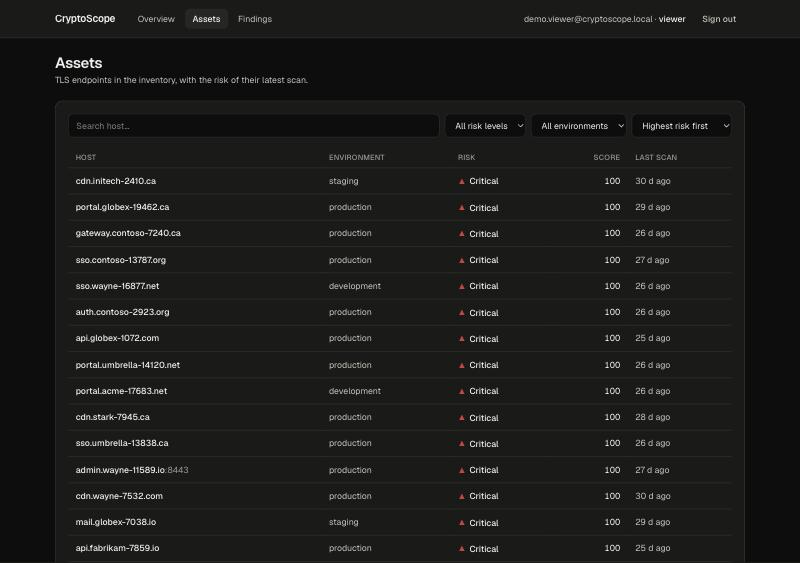
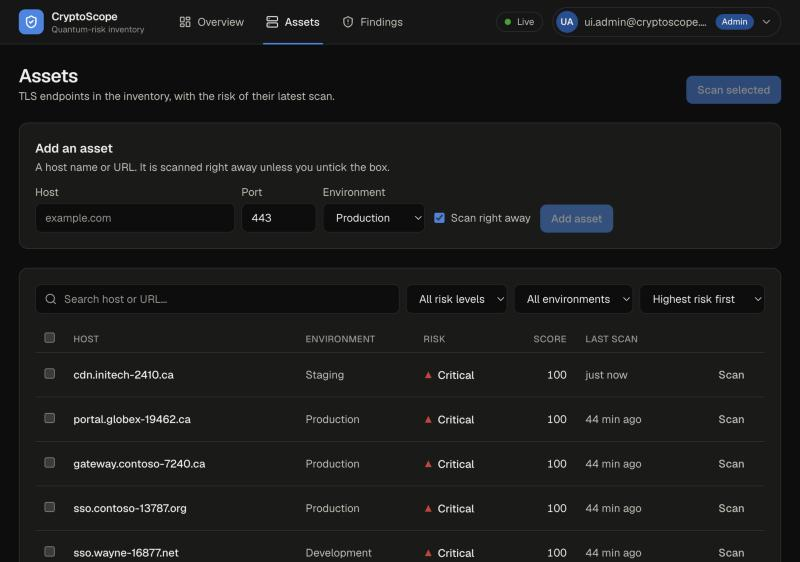
docs: refresh screenshots and document UI/UX decisions

diff --git a/README.md b/README.md
@@ -230,9 +230,17 @@ curl -s -X POST localhost:3001/api/auth/login -H 'content-type: application/json
 
 | Overview | Live scan progress |
 | --- | --- |
-| ![Overview: KPI tiles, key-algorithm and weak-handshake charts](docs/screenshots/overview.jpg) | ![Findings page while a batch scan runs, with retries shown live](docs/screenshots/live-scan.jpg) |
-| **Assets** | **Findings** |
-| ![Assets table sorted by risk](docs/screenshots/assets.jpg) | ![Findings filtered to critical and high](docs/screenshots/findings.jpg) |
+| ![Overview: KPI tiles, key-algorithm and weak-handshake charts, with a note where the traffic data stops](docs/screenshots/overview.jpg) | ![Batch scan of three hosts: "Scanning 3" in the navbar, "Scanning…" on each row, per-job progress pushed over Socket.IO](docs/screenshots/live-scan.jpg) |
+| **Assets** (admin) | **Findings search** (Elasticsearch) |
+| ![Assets: add-asset form, search, filters, and the inventory sorted by risk](docs/screenshots/assets.jpg) | ![Typo-tolerant search "globex certifcate expird": highlighted matches and a count on each severity chip](docs/screenshots/findings.jpg) |
+| **Phone** | **Sign in** |
+| ![Findings on a 375 px phone: host and date move under the finding, no sideways scrolling](docs/screenshots/mobile-findings.jpg) | ![Sign-in page](docs/screenshots/login.jpg) |
+
+**UI and UX.** One set of design tokens drives light and dark mode, and every page works at phone width (no
+horizontal page scroll). On phones, secondary table columns fold into the main cell. Severity is always a glyph
+plus a label, never color alone. Empty results explain why and offer a fix ("1 match is hidden by the severity
+filter → Show all severities"). Icon-only navigation keeps accessible names, and each page has its own browser
+title. Details: [docs/dashboard.md](docs/dashboard.md#ui-and-ux-decisions).
 
 ## Data model
 
@@ -294,7 +302,7 @@ One slow query and its fix (an index, **214x faster**, `EXPLAIN ANALYZE` before/
 | --- | --- | --- | --- |
 | Backend unit | `cd backend && npm test` | 240 | Scanner (real local TLS servers), DER parser, every risk rule, mappers, query builders, worker retry policy, scrypt, JWT config, SSRF policy, crypto providers (shared contract tests) |
 | Backend e2e | `cd backend && npm run test:e2e` | 63 | Real app + Postgres + Redis/BullMQ + Elasticsearch + Socket.IO: CRUD, async scans, retries, analytics with exact counts, auth/roles, an audit of every route, rate limits, sign/verify |
-| Frontend | `cd frontend && npm test` | 27 | Live-event reducer, API client, session/JWT expiry, chart helpers, login form, search highlighting |
+| Frontend | `cd frontend && npm test` | 31 | Live-event reducer, API client, session/JWT expiry, chart helpers (ticks, gaps), login form, search highlighting, date/expiry labels, scan status labels |
 
 **CI** (GitHub Actions, [`.github/workflows/ci.yml`](.github/workflows/ci.yml)) runs, on every push and PR:
 

diff --git a/docs/dashboard.md b/docs/dashboard.md
@@ -71,6 +71,27 @@ Built with Recharts, following one set of rules:
 - **Dark mode** has its own colour steps. The chart palette was checked for colour-blind separation and contrast
   in both modes with a palette validator (all checks pass).
 
+## UI and UX decisions
+
+Found in a product-design pass over every page (desktop and 375 px phone, light and dark), then fixed:
+
+| Problem | Fix |
+| --- | --- |
+| On a phone the Overview was 460 px wide: tables pushed the grid column wider than the screen | Cards are `min-w-0` and every table sits in a scroll wrapper, so a wide table scrolls inside its card, never the page |
+| On phones the most important columns (risk, score, host) were off-screen | Secondary columns (environment, last scan, host, date) hide below `sm`/`md` and their values move under the main cell |
+| Host names broke mid-label ("cdn.initec / h-2410.ca") | `<HostName>` adds `<wbr>` after `.` and `-`, so names wrap only at label boundaries |
+| A search returning 0 while a severity chip said "Medium 1" was a dead end | The empty state says how many matches the filters hide and offers **Show all severities** |
+| Two clear buttons in search boxes (ours plus the browser's) | The native WebKit cancel button is hidden; one shared `SearchInput` (icon, clear, Esc) is used on every page |
+| Old rows stayed fully visible while a new search was pending | Rows dim while the debounced query catches up and while loading |
+| "Page 1 of 1 · 0 total" and disabled Previous/Next on empty or single-page results | Pagination hides on empty results and shows just the count on a single page |
+| A scan that couldn't reach its host said **Done** | The live panel says **Unreachable** (in red) when the job finished but the scan failed |
+| The scan button invited a second click while a scan was already running | Rows with a queued or running scan show **Scanning…** (disabled) |
+| "Expired 4206 days ago" and "32 min / ago" wrapping in tables | Long spans read as months/years ("Expired 11 years ago", exact days in the tooltip); short cells never wrap |
+| Hours with no traffic were drawn as zero weak handshakes, which reads as "all fixed" | Empty hours are gaps, and a note says where the data stops |
+| On phones the nav links were icons with no accessible name (`display: none` labels) | Labels are visually hidden (`sr-only`), so screen readers still announce them |
+| Every browser tab was titled "CryptoScope"; the 404 was the bare framework page; login had no branding | Per-page titles ("Assets · CryptoScope"), a branded 404 with a way back, and the logo on the sign-in card |
+| Add-asset form had no heading; its checkbox and button didn't line up with the inputs | Titled form with a one-line explanation; controls share the input height |
+
 ## Run and test
 
 ```bash
